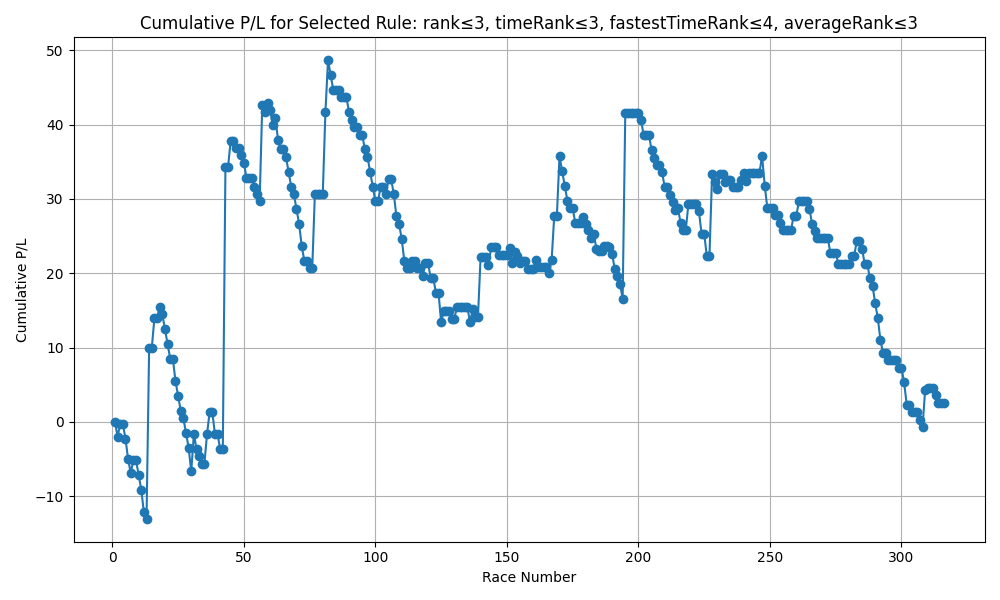
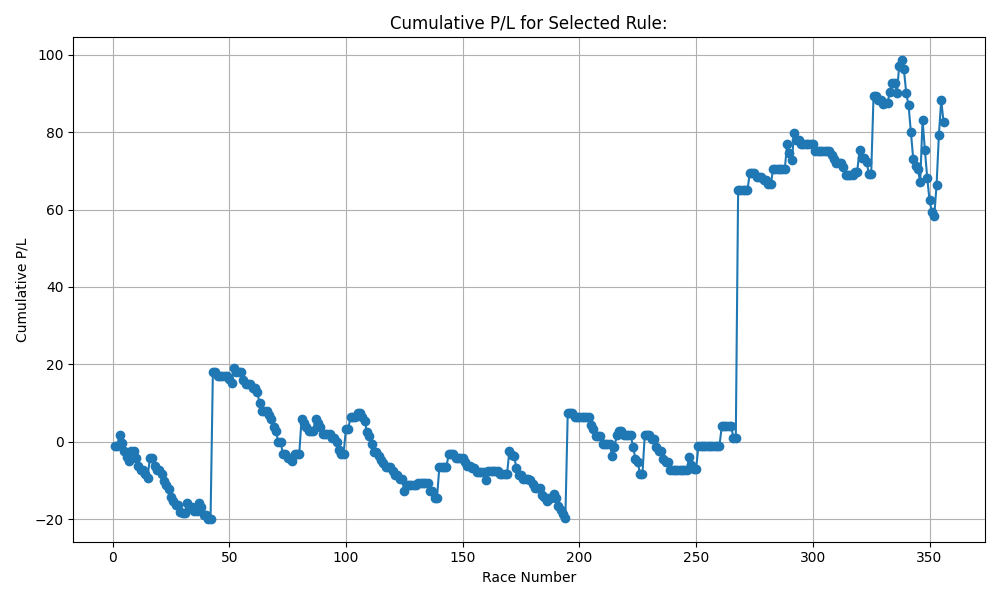
Report

diff --git a/src/RacingStatto/Python/plot_racingstatto_full_simulation.py b/src/RacingStatto/Python/plot_racingstatto_full_simulation.py
@@ -18,29 +18,39 @@ except Exception as e:
 # To simulate, we need the full data. Since it's large, I'll use a placeholder and note to replace with actual data.
 
 #fields = ['goingRank', 'distanceRank', 'goingDistRank', 'courseRank', 'totalWinsRank', 'percentageTotalRank', 'orRank', 'tsRank', 'rprRank', 'jockeyPercentageRank', 'trainerPercentageRank', 'timeRank', 'fastestTimeRank', 'rank', 'averageRank']
-#fields = ['jockeyPercentageRank', 'trainerPercentageRank', 'rank']
+#fields = ['jockeyPercentageRank', 'trainerPercentageRank', 'timeRank', 'fastestTimeRank', 'rank']
 fields = ['timeRank', 'fastestTimeRank', 'rank']
 
 # Candidate rules: global threshold for all fields
-thresholds = [1, 2, 3, 4, 5, 6, 7, 8, 9, 10]
+from itertools import chain, combinations, product
+
+def powerset(iterable):
+    s = list(iterable)
+    return chain.from_iterable(combinations(s, r) for r in range(1, len(s)+1))
+
+thresholds = [1, 2, 3, 4, 5]
+max_sp_price = 100.0
 
 results = []
 
-for t in thresholds:
-    total_profit = 0
-    total_bets = 0
-    for race in races:
-        for runner in race['runners']:
-            data = runner['racingStattoData']
-            if all(data.get(f, 100) <= t for f in fields):
-                total_bets += 1
-                if runner['isWinner']:
-                    total_profit += runner['spPrice'] - 1
-                else:
-                    total_profit -= 1
-    if total_bets > 0:
-        roi = total_profit / total_bets
-        results.append({'threshold': t, 'n_bets': total_bets, 'profit': total_profit, 'roi': roi})
+for subset in powerset(fields):
+    subset = list(subset)
+    for threshold_values in product(thresholds, repeat=len(subset)):
+        rule = dict(zip(subset, threshold_values))
+        total_profit = 0
+        total_bets = 0
+        for race in races:
+            for runner in race['runners']:
+                data = runner['racingStattoData']
+                if all(data.get(f, 100) <= t for f, t in rule.items()) and runner['spPrice'] <= max_sp_price:
+                    total_bets += 1
+                    if runner['isWinner']:
+                        total_profit += runner['spPrice'] - 1
+                    else:
+                        total_profit -= 1
+        if total_bets > 0:
+            roi = total_profit / total_bets
+            results.append({'rule': rule, 'n_bets': total_bets, 'profit': total_profit, 'roi': roi})
 
 # Sort by ROI descending, then by n_bets descending
 results = sorted(results, key=lambda x: (x['roi'], x['n_bets']), reverse=True)
@@ -51,10 +61,14 @@ top_rules = results[:10]
 # Print top rules
 print("Top 10 Rules by ROI:")
 for i, r in enumerate(top_rules):
-    print(f"Rule {i+1}: Threshold = {r['threshold']}, N_bets = {r['n_bets']}, Profit = {r['profit']:.2f}, ROI = {r['roi']:.4f}")
+    rule_desc = " && ".join([f"{k}<={v}" for k, v in r['rule'].items()])
+    print(f"Rule {i+1}: {rule_desc}, N_bets = {r['n_bets']}, Profit = {r['profit']:.2f}, ROI = {r['roi']:.4f}")
 
 # Plot
-labels = [f"Rule {i+1}\nN={r['n_bets']}" for i, r in enumerate(top_rules)]
+labels = []
+for i, r in enumerate(top_rules):
+    rule_desc = "\n".join([f"{k}<={v}" for k, v in r['rule'].items()])
+    labels.append(f"Rule {i+1}\nN={r['n_bets']}\n{rule_desc}")
 rois = [r['roi'] for r in top_rules]
 
 x = np.arange(len(top_rules))
@@ -62,13 +76,13 @@ plt.figure(figsize=(14,7))
 plt.bar(x, rois, color='lightgreen' if any(r > 0 for r in rois) else 'lightcoral')
 plt.xticks(x, labels, rotation=45, ha='right')
 plt.ylabel('ROI per Bet')
-plt.title('Top 10 RacingStattoData Rules by ROI (Full Simulation with Losses)')
+plt.title('Top 10 RacingStattoData Rules by ROI (Brute Force Subsets)')
 plt.axhline(0, color='black', linewidth=0.5)
 plt.tight_layout()
 plt.show()
 
 # Select the best rule: the top one
-selected_rule = top_rules[0]['threshold'] if top_rules else 5
+selected_rule = top_rules[0] if top_rules else {'rule': {}}
 
 # Simulate bets with this rule and list matching runners
 matching_runners = []
@@ -77,7 +91,7 @@ total_pl = 0
 for race in races:
     for runner in race['runners']:
         data = runner['racingStattoData']
-        if all(data.get(f, 100) <= selected_rule for f in fields):
+        if selected_rule['rule'] and all(data.get(f, 100) <= t for f, t in selected_rule['rule'].items()) and runner['spPrice'] <= max_sp_price:
             pl = (runner['spPrice'] - 1) if runner['isWinner'] else -1
             total_pl += pl
             matching_runners.append({
@@ -92,7 +106,8 @@ for race in races:
     cumulative_pl.append(total_pl)
 
 # Print the list of matching runners in a table
-print(f"\nMatching Runners for Top Rule: All fields <= {selected_rule}")
+rule_desc = " && ".join([f"{k}<={v}" for k, v in selected_rule['rule'].items()]) if selected_rule['rule'] else "None"
+print(f"\nMatching Runners for Top Rule: {rule_desc}")
 print(f"{'Race Time':<25} {'Racecourse':<15} {'Horse Name':<20} {'SP Price':<9} {'Winner':<7} {'P/L':<5}")
 print("-" * 100)
 for r in matching_runners:
@@ -105,7 +120,7 @@ plt.figure(figsize=(10,6))
 plt.plot(range(1, len(cumulative_pl)+1), cumulative_pl, marker='o')
 plt.xlabel('Race Number')
 plt.ylabel('Cumulative P/L')
-plt.title('Cumulative P/L for Selected Rule: rank≤3, timeRank≤3, fastestTimeRank≤4, averageRank≤3')
+plt.title('Cumulative P/L for Selected Rule:')
 plt.grid(True)
 plt.tight_layout()
 plt.savefig('./src/RacingStatto/Data/best_combination_profit_chart.png')

diff --git a/docs/Posts/BetfairAiTrading_Weekly_Report_2025-11-22.md b/docs/Posts/BetfairAiTrading_Weekly_Report_2025-11-22.md
@@ -1,0 +1,17 @@
+# BetfairAiTrading Weekly Report (47)
+
+## Topic Discussed
+This week’s discussion among friends focused on the use of AI tools—specifically ChatGPT’s ‘GamblerPT’ for horse racing betting. We explored the effectiveness, limitations, and future potential of AI-driven selections in the betting landscape.
+
+## Positive Opinions
+- Friends appreciated AI’s ability to process large amounts of racing data and generate selections, sometimes identifying mid-market horses with decent odds (often 8/1+).
+- Some saw value in using AI for idea generation and as a supplementary tool, especially for those who lack time or expertise to analyze races manually.
+- The accessibility of advanced betting insights was noted, as AI tools make sophisticated analysis available to more people.
+
+## Negative Opinions
+- Mixed results were observed, with AI selections not consistently outperforming traditional methods or intuition.
+- Concerns persisted about AI’s tendency to favor certain market segments and its lack of real-time adaptability to unpredictable race-day factors.
+- Skepticism remained about relying solely on AI, as bookmakers and professional bettors already use sophisticated analytics, potentially neutralizing any edge.
+
+## My Own Opinion
+AI tools like ChatGPT’s ‘GamblerPT’ offer interesting possibilities for horse racing analysis, especially for data-driven punters. However, as seen in our group’s feedback, results are inconsistent and should be treated as experimental. The best approach is to combine AI-generated insights with personal judgment and race-day context, using technology as an aid rather than a replacement for experience and intuition.

diff --git a/docs/Research/README.md b/docs/Research/README.md
@@ -1,8 +1,6 @@
-
 # Research
 
 This directory contains research documents and analysis for Betfair AI trading.
-
 
 ## Files
 
@@ -15,7 +13,7 @@ This directory contains research documents and analysis for Betfair AI trading.
 - [HorseRacingWinnerRate.md](HorseRacingWinnerRate.md)
 - [Prompts.md](Prompts.md)
 
+
 ### RacingStatto Research Prompts
 - [RacingStattoData_Pattern_Prompt.md](RacingStatto/RacingStattoData_Pattern_Prompt.md)
 - [RacingStattoDataWinnersOnly_Pattern_Prompt.md](RacingStatto/RacingStattoDataWinnersOnly_Pattern_Prompt.md)
-

diff --git a/docs/Posts/README.md b/docs/Posts/README.md
@@ -23,6 +23,7 @@ This directory contains community posts, articles, and real-world examples showc
 
 
 ## Available Posts
+
 ### [AI Agent Execution: Automation Approaches for Betfair Trading](AI_Agent_Execution_Reddit_Post.md)
 **Overview of Python, C#, CLI, and text injection methods for AI agent automation and debugging.**
 ### [Horse Racing Combined EV Analysis with Automated Betting](../Prompts/HorseRacingCombinedEVAnalysisWithAutomatedBetting.md)
